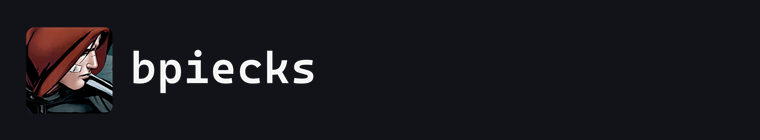
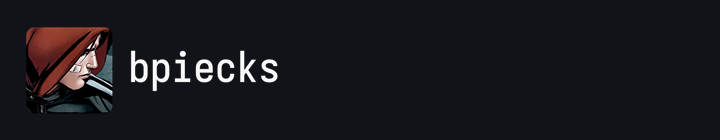
branding: set the wordmark in Iosevka Nerd Font, the font the reference site uses

Changed region(s): [[0.0306, 0.2, 0.4278, 0.8], [0.0306, 0.2, 0.0611, 0.3429], [0.1833, 0.6286, 0.2139, 0.6571]]

diff --git a/assets/branding/README.md b/assets/branding/README.md
@@ -9,22 +9,39 @@ carry a logo or a favicon. The `gitbook-docs.yaml` schema only accepts
 
 | File | Size | GitBook field | Result |
 | --- | --- | --- | --- |
-| `logo-light.png` | 1007 x 300 | Customization -> General -> Custom logo (light) | hooded figure plus `bpiecks` in the header |
-| `logo-dark.png` | 1007 x 300 | same, dark mode | same, white wordmark |
+| `logo-light.png` | 895 x 300 | Customization -> General -> Custom logo (light) | hooded figure plus `bpiecks` in the header |
+| `logo-dark.png` | 895 x 300 | same, dark mode | same, white wordmark |
 | `icon-132.png` | 132 x 132 | Customization -> General -> Icon | square favicon, replacing the generated letter avatar |
-| `logo-jpiecks-light.png`, `logo-jpiecks-dark.png` | 1007 x 300 | alternative | the same layout with `Jpiecks` as the wordmark |
-| `preview-light.png`, `preview-dark.png` | 760 x 140 | nothing | how the header looks at 90 px tall |
+| `logo-light-regular.png`, `logo-dark-regular.png` | 874 x 300 | alternative | same layout, regular weight instead of bold |
+| `logo-jpiecks-light.png`, `logo-jpiecks-dark.png` | 895 x 300 | alternative | the same layout with `Jpiecks` as the wordmark |
+| `preview-light.png`, `preview-dark.png` | 720 x 140 | nothing | how the header looks at 90 px tall |
+| `compare.png` | 900 x 420 | nothing | the reference geometry, our version, and the file at full size |
 
 The custom logo replaces both the icon and the site title in the header. The
-icon still controls the browser favicon. If the two disagree, the header shows
-the logo and the tab shows the icon.
+icon still controls the browser favicon.
+
+## The font
+
+**Iosevka Nerd Font** (family name `Iosevka NF`, OFL 1.1). Taken from the site
+this layout is modelled on, which serves the same file as a GitBook custom font:
+
+```
+https://fonts.gitbook.com/font/custom/MAxoBoNe75Umz38IWLJC/2397319/iosevkanerdfont-regular.ttf
+https://fonts.gitbook.com/font/custom/MAxoBoNe75Umz38IWLJC/9639324/iosevkanerdfont-bold.ttf
+```
+
+Local copies, used to render the wordmark: `%TEMP%\iosevka\`.
+
+The reference header renders its title as Iosevka at 16 px, weight 600,
+letter-spacing -0.4 px, next to a 32 px icon. That was read from the computed
+style of the title element, not guessed from a screenshot.
 
 ## How the files were made
 
 The figure is the original `1300 x 1304` upload, rounded and left-aligned on a
-transparent 300 px canvas. The wordmark is Cascadia Mono SemiBold, scaled so the
-cap height is 190 px, in `#111111` for light and `#F5F5F5` for dark. Script used:
-`%TEMP%\build_branding.ps1` on the machine that produced them.
+transparent 300 px canvas. The wordmark is Iosevka NF Bold, scaled so the cap
+height is 190 px, in `#111111` for light and `#F5F5F5` for dark. Scripts used:
+`%TEMP%\build_iosevka.ps1` and `%TEMP%\branding_sheet.ps1`.
 
-Changing the wordmark means re-running that script with a different string, not
+Changing the wordmark means re-running the script with a different string, not
 editing a PNG.
